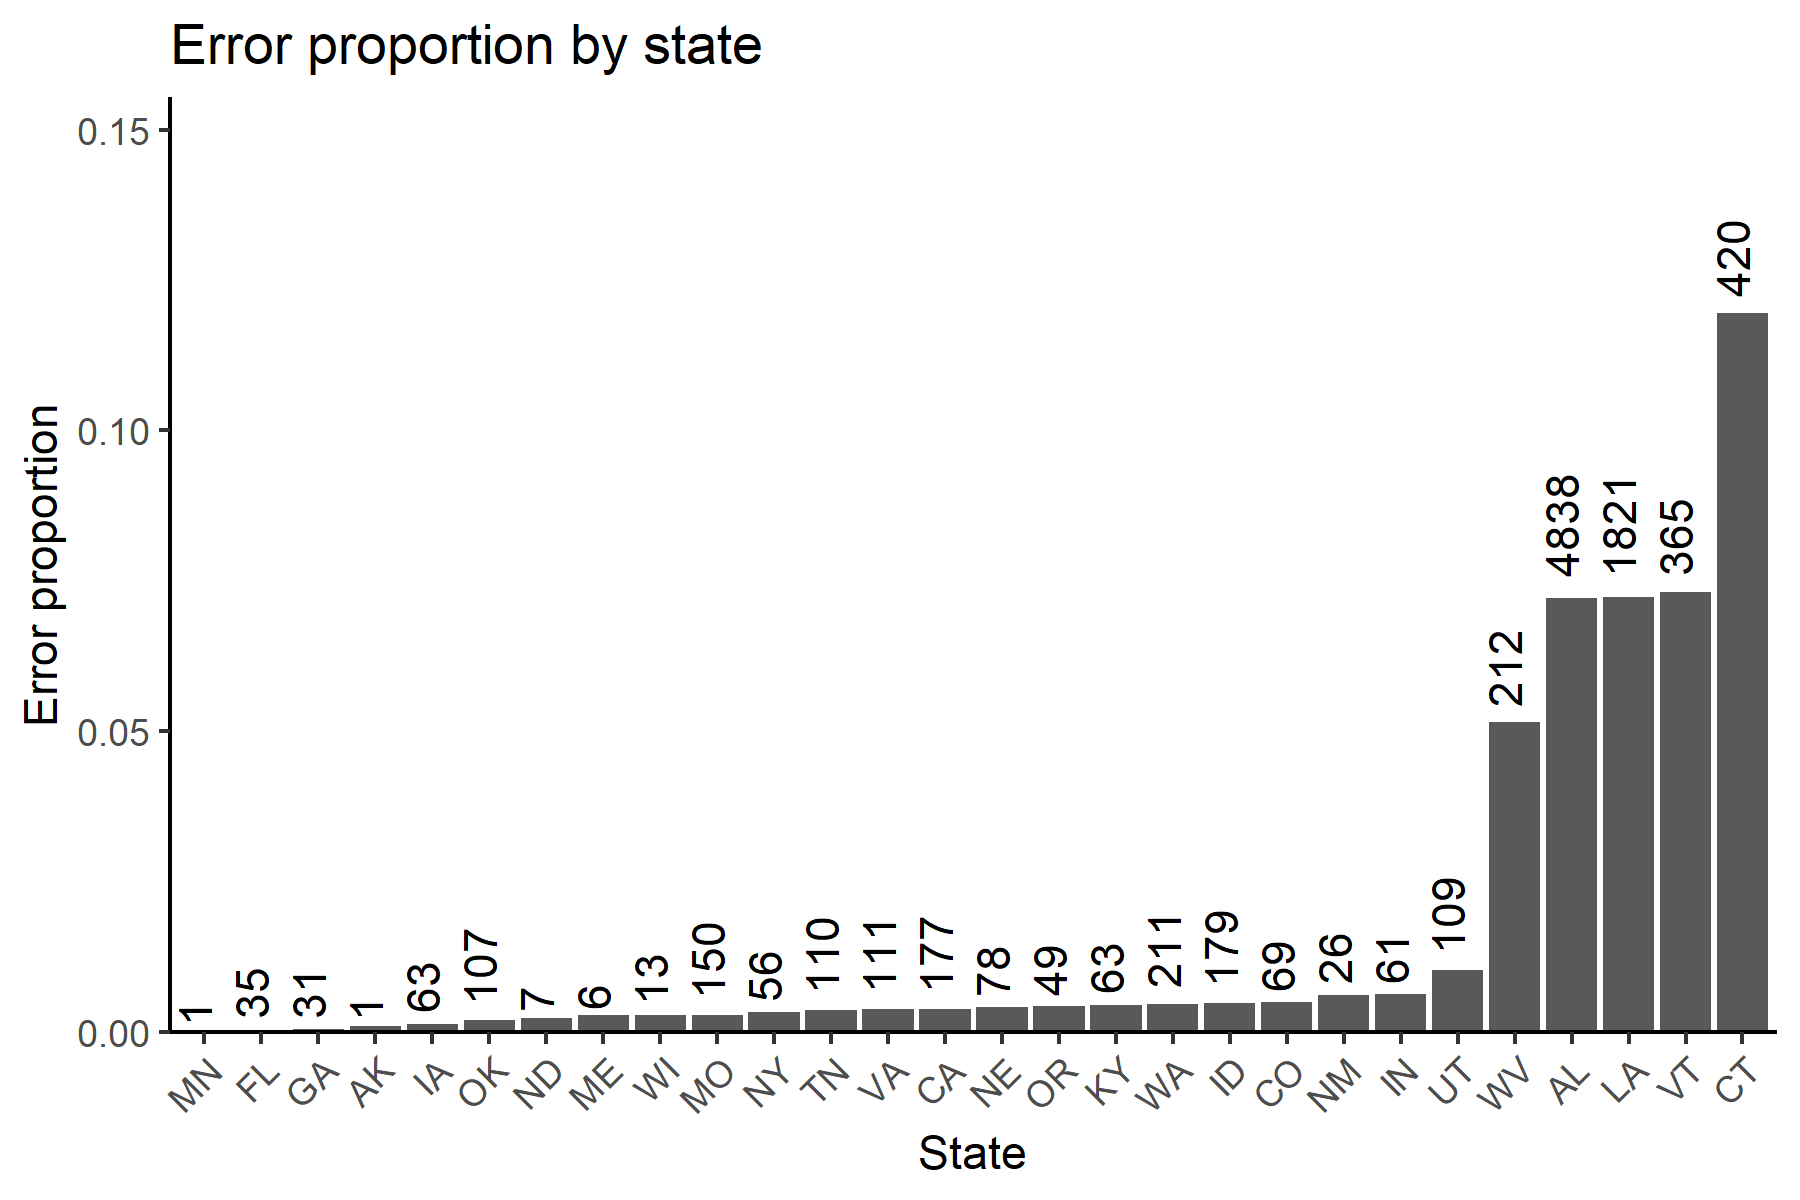
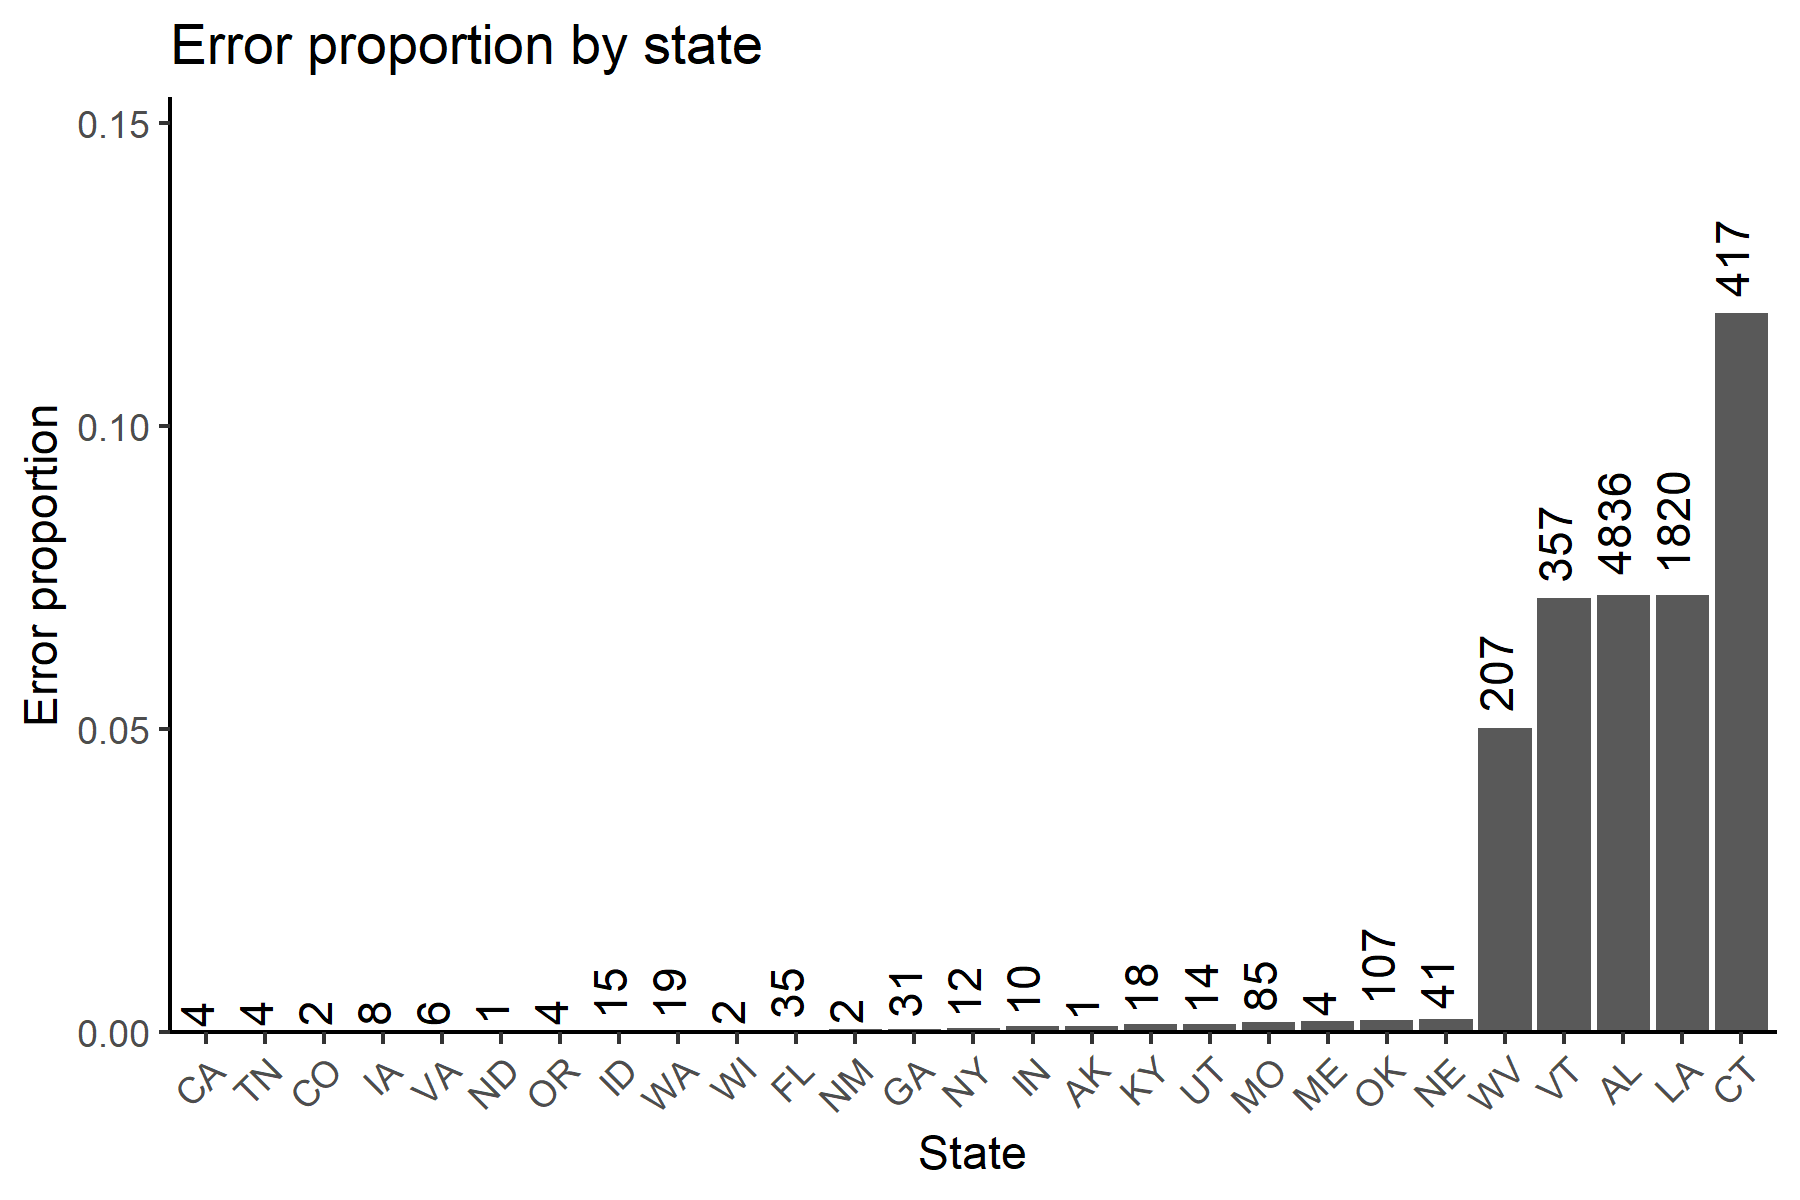
proof: no longer flags hunters < 16 years of age as an error; errorPlot_fields: no longer has option to plot youth hunters

diff --git a/NEWS.md b/NEWS.md
@@ -4,6 +4,7 @@
 
 -   Edited `shiftCheck()` to return a summary of shift errors rather than just a table of record id values.
 -   Edited `issueCheck()`, `issueAssign()`, and `issuePlot()` to accommodate new rules in evaluating if a record is current. All records are now current unless their `issue_date` falls before `issue_start` or after the last day of migratory bird hunting in the record's state.
+-   Edited `proof()` and `errorPlot_fields()` to no longer flag and/or plot youth hunters (hunters with birth year < 16 years ago).
 
 ## Minor changes / bug fixes
 
